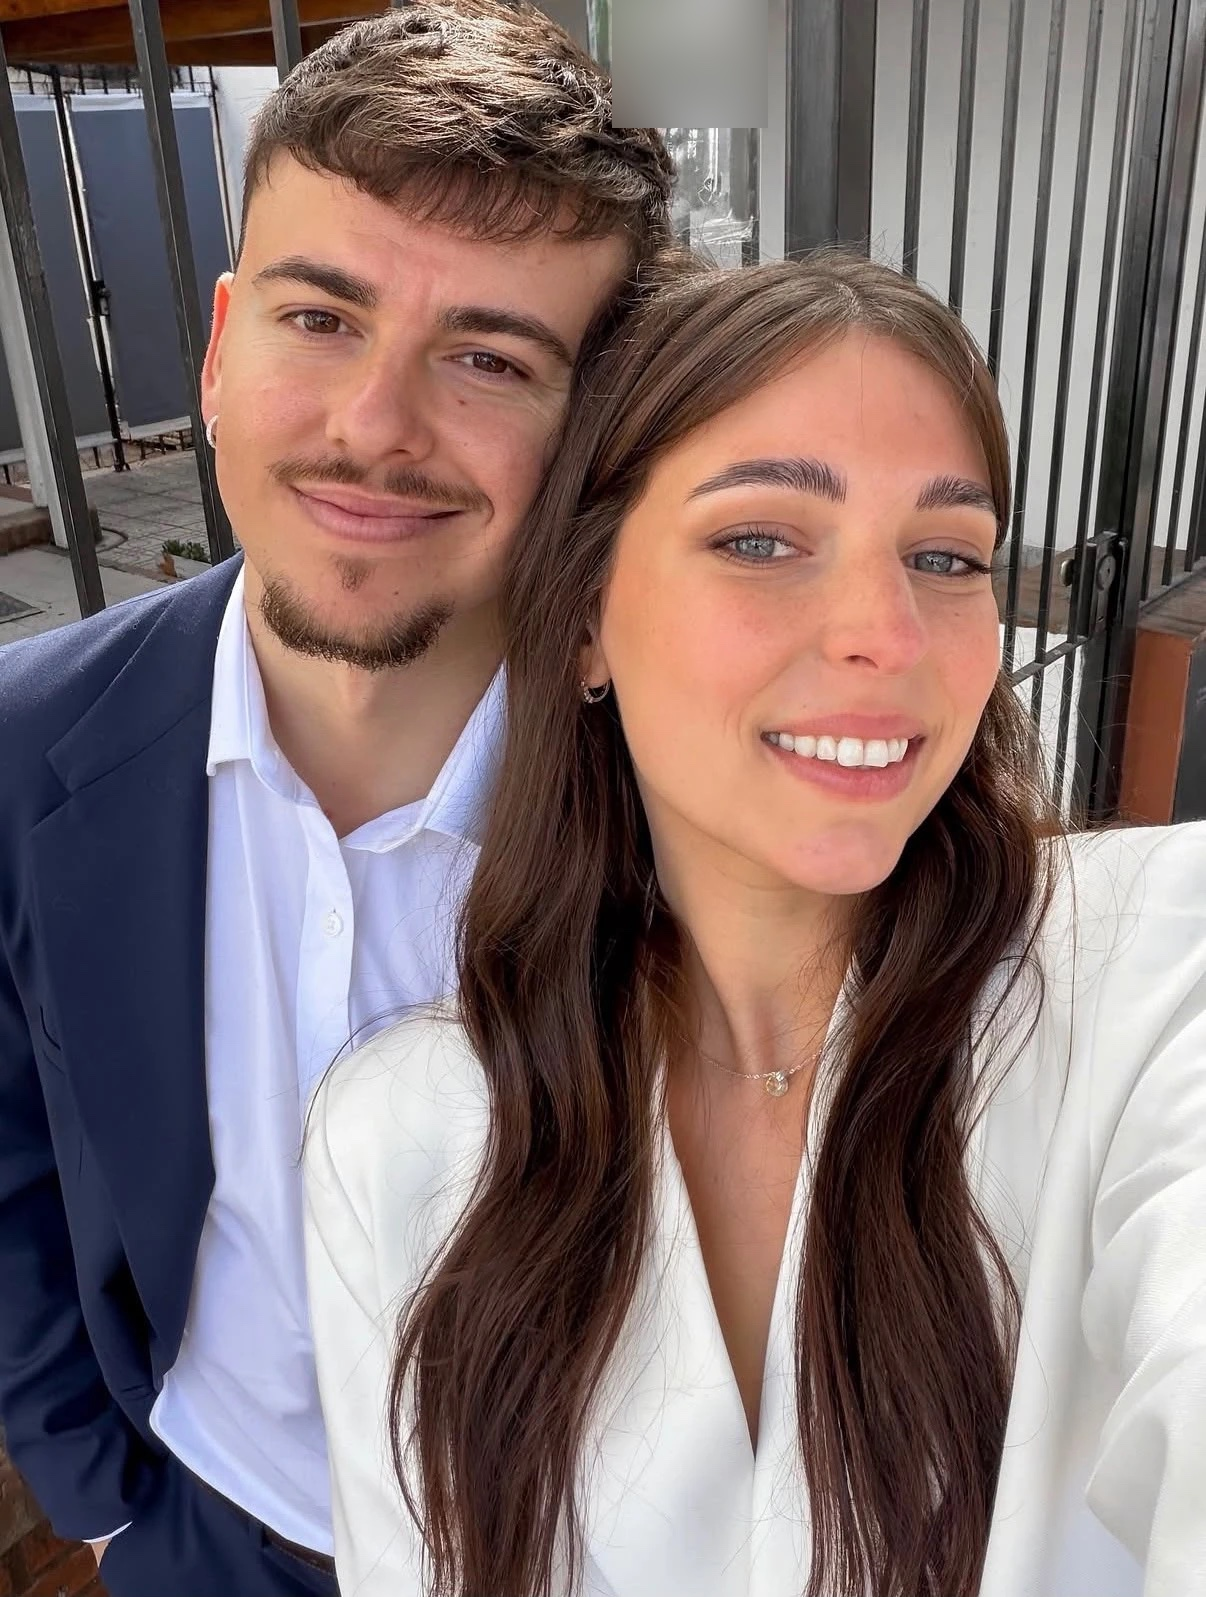
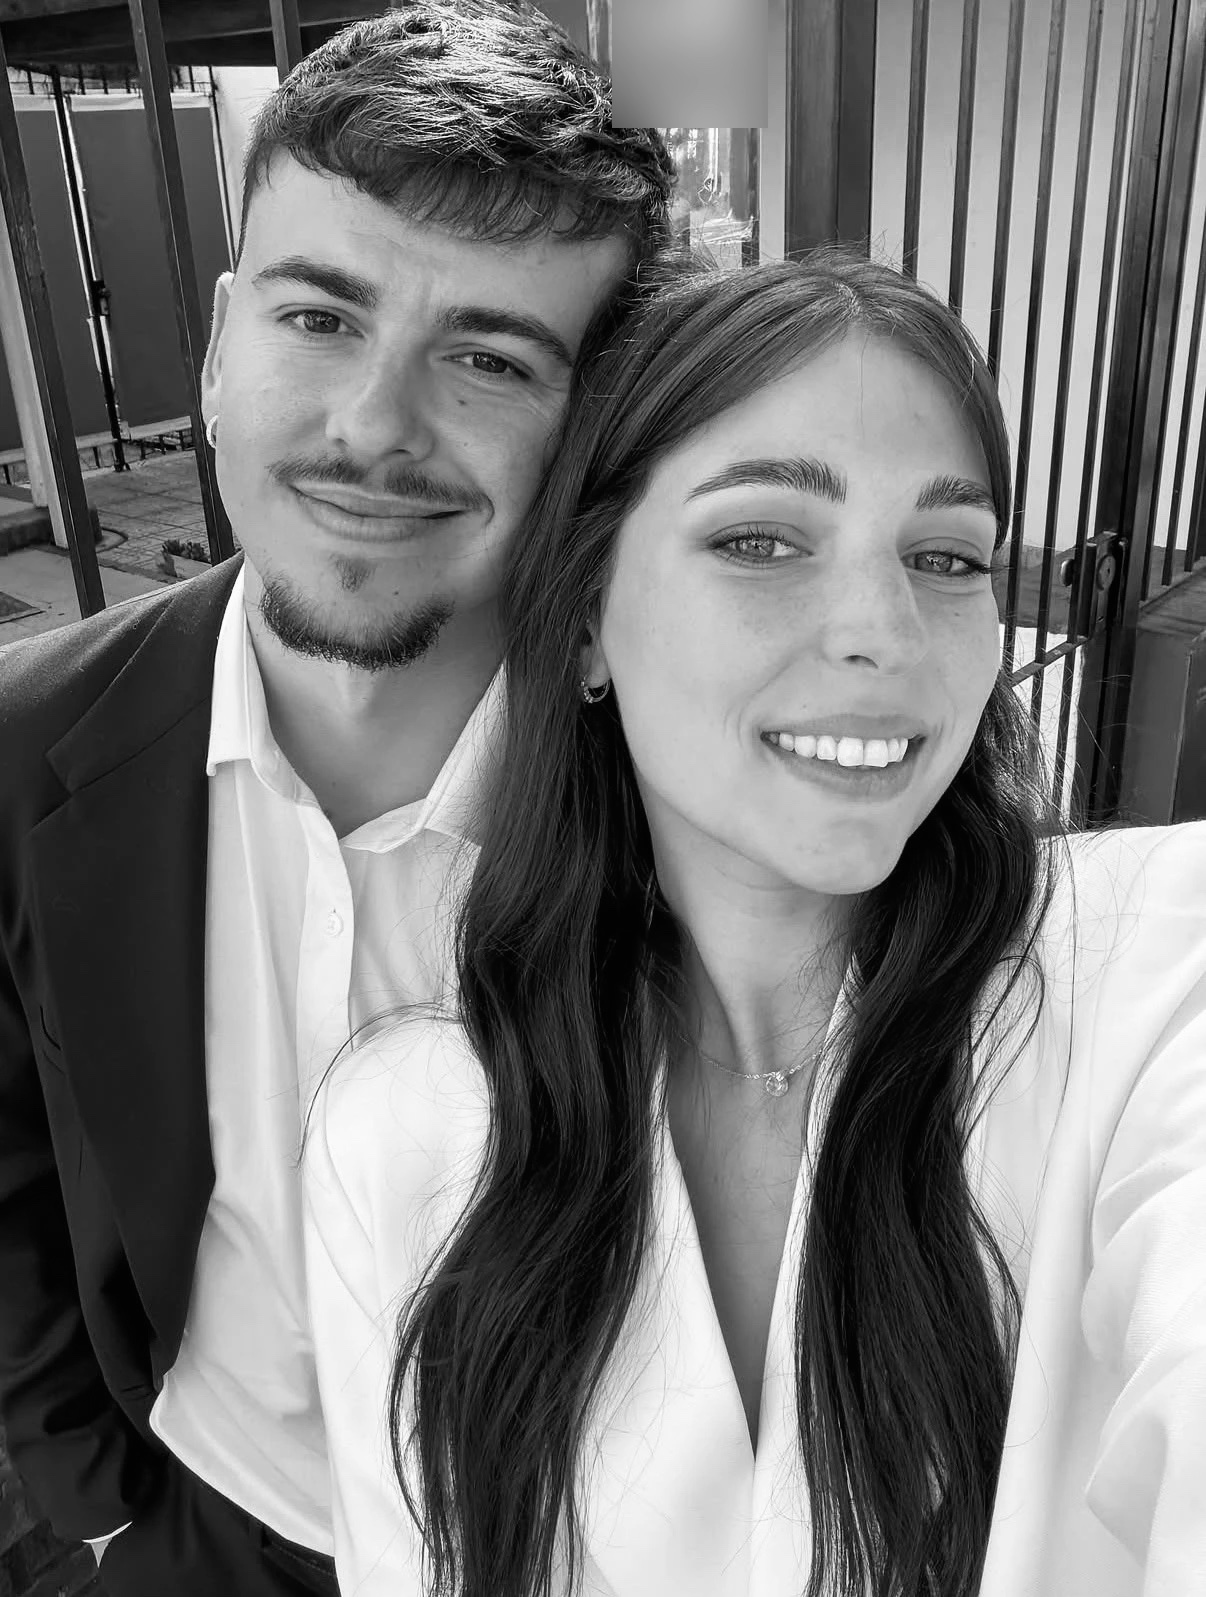
Ejemplo: portada de Vera & Santiago en blanco y negro

diff --git a/src/lib/demo-wedding.ts b/src/lib/demo-wedding.ts
@@ -7,7 +7,7 @@ export const wedding = {
   dateLabel: 'Sábado 20 de marzo de 2027',
   dateShort: '20 de marzo de 2027',
   city: 'Cañuelas, Buenos Aires',
-  photo: '/portada-ejemplo-vera-santiago.jpg', // foto de la pareja de ejemplo (2026-11-20), con el cartel del fondo difuminado
+  photo: '/portada-ejemplo-vera-santiago.jpg?v=2', // foto de la pareja de ejemplo (2026-11-20), en blanco y negro y con el cartel del fondo difuminado
 };
 
 export type EventKey = 'ceremonia' | 'recepcion' | 'fiesta' | 'civil' | 'brunch';

diff --git a/src/lib/weda/site-model.tsx b/src/lib/weda/site-model.tsx
@@ -90,7 +90,7 @@ export const demoSiteData: SiteData = {
   names: demoWedding.couple,
   coverPhoto: demoWedding.photo,
   coverPosition: '50% 24%', // la foto es vertical: en pantallas anchas el recorte sube para que se vean las caras
-  photoAlt: 'Vera y Santiago sonriendo juntos en una selfie',
+  photoAlt: 'Vera y Santiago sonriendo juntos en una selfie, en blanco y negro',
   coverText: '¡Nos casamos!',
   eventDate: demoEventDate,
   eventOffset: demoOffset,
